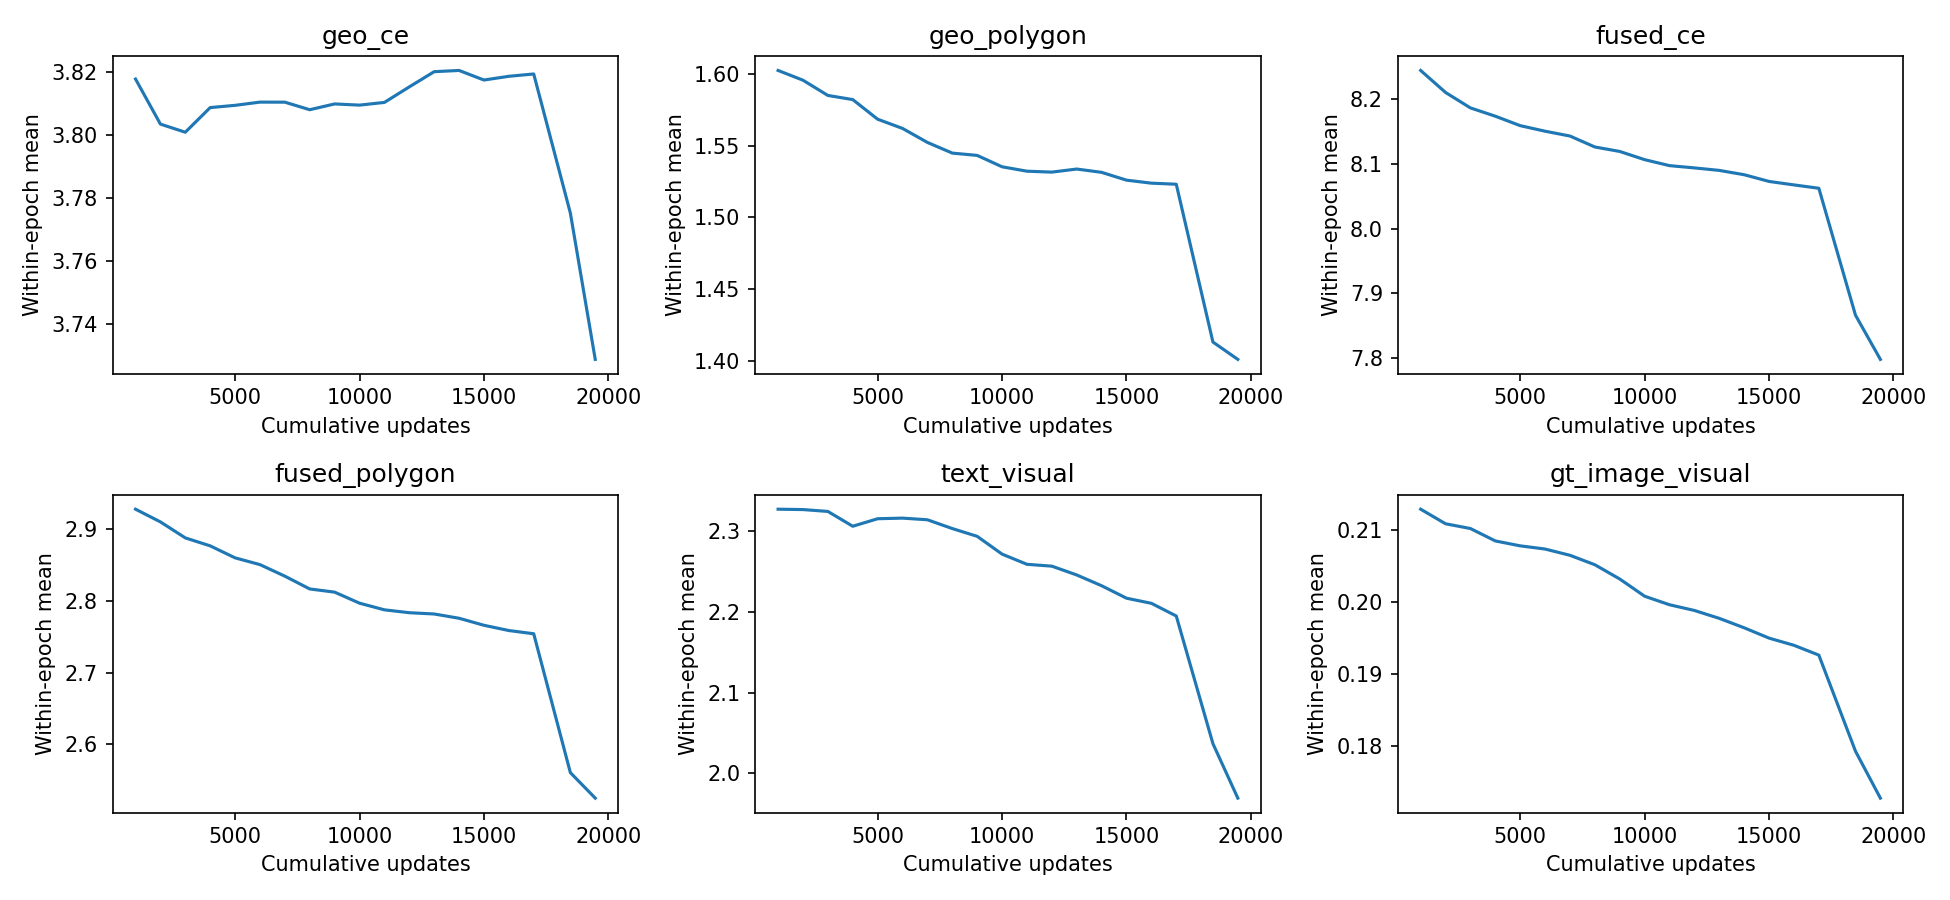
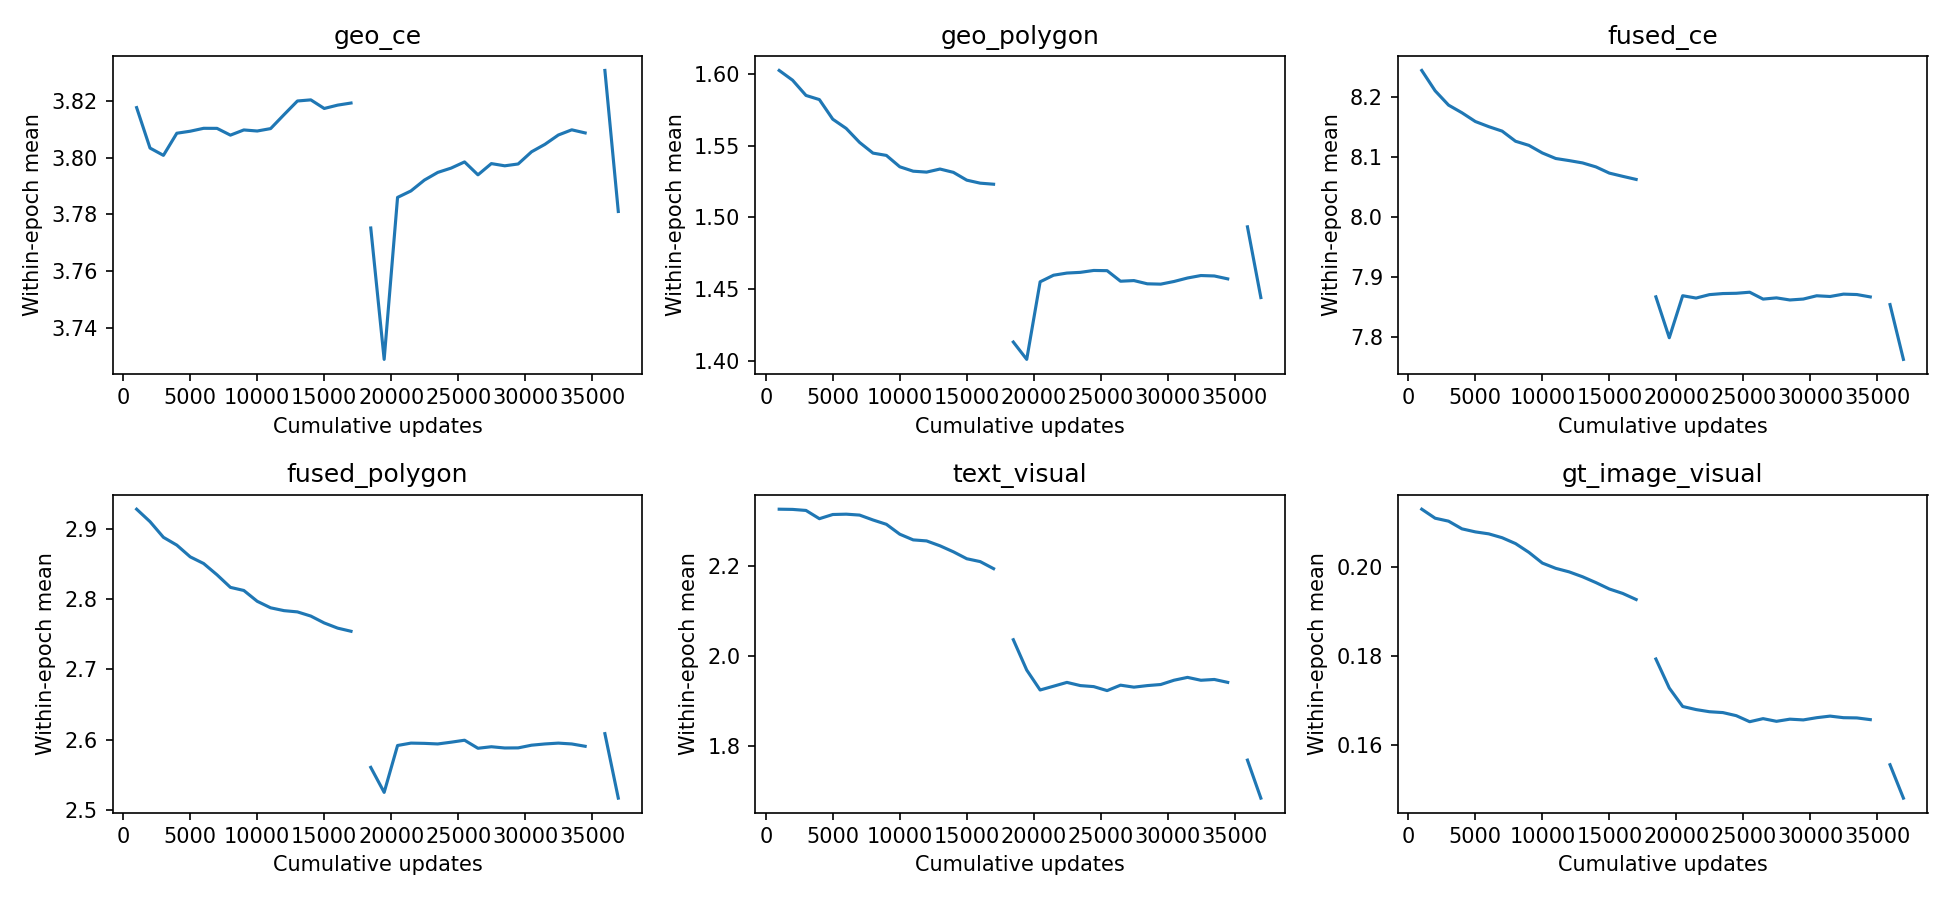
reports(v3): record two complete epochs without premature evaluation

diff --git a/scripts/report_unified_pgvb_v3_training.py b/scripts/report_unified_pgvb_v3_training.py
@@ -17,13 +17,18 @@ def main():
     points=[x for x in events if 'mean_loss' in x]
     x=[(v['epoch']-1)*nfit+v['update'] for v in points];y=[v['mean_loss'] for v in points]
     assert all(math.isfinite(v) for v in y)
-    fig,ax=plt.subplots(figsize=(9,4));ax.plot(x,y,label='Within-epoch cumulative mean (every 1000 updates)')
+    fig,ax=plt.subplots(figsize=(9,4))
+    for j,epoch in enumerate(sorted({v['epoch'] for v in points})):
+        segment=[(xx,v['mean_loss']) for xx,v in zip(x,points) if v['epoch']==epoch]
+        if segment:ax.plot(*zip(*segment),color='C0',label='Within-epoch cumulative mean (not joined across epochs)' if j==0 else None)
     if epochs:ax.plot([v['epoch']*nfit for v in epochs],[v['mean_train_loss'] for v in epochs],'o-',label='Completed epoch mean')
     ax.set(xlabel='Cumulative optimizer updates',ylabel='TRAIN weighted loss',title='V3 real GPU training; no Val selection');ax.legend(fontsize=7);fig.tight_layout();fig.savefig(o/'training_loss.png',dpi=150);plt.close(fig)
     keys=['geo_ce','geo_polygon','fused_ce','fused_polygon','text_visual','gt_image_visual'];fig,axes=plt.subplots(2,3,figsize=(13,6))
     for ax,k in zip(axes.flat,keys):
         vals=[(xx,v['components_mean'][k]) for xx,v in zip(x,points) if k in v.get('components_mean',{})]
-        if vals:ax.plot(*zip(*vals))
+        for epoch in sorted({v['epoch'] for v in points}):
+            segment=[(xx,v['components_mean'][k]) for xx,v in zip(x,points) if v['epoch']==epoch and k in v.get('components_mean',{})]
+            if segment:ax.plot(*zip(*segment),color='C0')
         ax.set(title=k,xlabel='Cumulative updates',ylabel='Within-epoch mean')
     fig.tight_layout();fig.savefig(o/'loss_components.png',dpi=150);plt.close(fig)
     final_path=r/'train/report.json';final=json.loads(final_path.read_text()) if final_path.exists() else None
@@ -41,7 +46,7 @@ def main():
         if (r/src).exists():shutil.copyfile(r/src,o/dst)
     report=['# UnifiedPGVB-V3 完整TRAIN训练与评测','',f'完整TRAIN输入{fit["total"]}条；本阶段拟合{fit["fit"]}条、物理目标留出{fit["dev"]}条，物理分组重叠0。初始化V2曾使用TRAIN，内部留出不是完全未见泛化。','',f'当前已完成完整Epoch：{len(epochs)}；训练结束：{final is not None}。','', 'Geometry和轻量视觉模块训练，BERT/SigLIP2冻结并读取缓存；seed42，原权重保留。四小时累计训练预算，至少三轮后连续两轮相对Loss改善<0.5%提前停止。未修改Stop=0.3、1mm守卫或Horizon。','', '训练视点由公开地标选择，属于离线地图引导观测；不能作为无人机真实已看到的图像。导航/初始Goal评测使用真实起点及因果历史，保留原yaw，存在需检查的训练—部署分布差异。Polygon/Depth均是弱监督/2.5D代理，不是人工像素真值。','', '|Epoch|拟合样本|TRAIN Loss|本轮Wall秒|GPU峰值GiB|','|---|---:|---:|---:|---:|']
     for v in epochs:report.append(f'|{v["epoch"]}|{v["fit"]}|{v["mean_train_loss"]:.6f}|{v["elapsed_s"]:.2f}|{v["peak_cuda_GiB"]:.3f}|')
-    report+=['','![训练Loss](training_loss.png)','![Loss分量](loss_components.png)','', '## 全量评测状态','']
+    report+=['','![训练Loss](training_loss.png)','![Loss分量](loss_components.png)','', '## 全量评测状态','', 'Top-K按384×384稠密世界网格原始排序，未做空间去重，不能直接与旧784网格的Top-K作横向比较；Top1/NE使用相同20m世界距离判据。','']
     if initial:
         assert initial['coverage']=={'completed':2470,'expected':2470}
         report += [f'全量初始定位覆盖2470/2470，推理错误{initial["errors"]}条。','', '|方法|Top1≤20m|Top5≤20m|Top20≤20m|NE(m)|','|---|---:|---:|---:|---:|']

diff --git a/reports/unified_pgvb/v3_full_training/REPORT_zh.md b/reports/unified_pgvb/v3_full_training/REPORT_zh.md
@@ -2,7 +2,7 @@
 
 完整TRAIN输入21878条；本阶段拟合17473条、物理目标留出4405条，物理分组重叠0。初始化V2曾使用TRAIN，内部留出不是完全未见泛化。
 
-当前已完成完整Epoch：1；训练结束：False。
+当前已完成完整Epoch：2；训练结束：False。
 
 Geometry和轻量视觉模块训练，BERT/SigLIP2冻结并读取缓存；seed42，原权重保留。四小时累计训练预算，至少三轮后连续两轮相对Loss改善<0.5%提前停止。未修改Stop=0.3、1mm守卫或Horizon。
 
@@ -11,11 +11,14 @@ Geometry和轻量视觉模块训练，BERT/SigLIP2冻结并读取缓存；seed42
 |Epoch|拟合样本|TRAIN Loss|本轮Wall秒|GPU峰值GiB|
 |---|---:|---:|---:|---:|
 |1|17473|13.351958|756.05|0.144|
+|2|17473|13.035805|754.36|0.144|
 
 ![训练Loss](training_loss.png)
 ![Loss分量](loss_components.png)
 
 ## 全量评测状态
+
+Top-K按384×384稠密世界网格原始排序，未做空间去重，不能直接与旧784网格的Top-K作横向比较；Top1/NE使用相同20m世界距离判据。
 
 尚无全部2470条Val-Seen定位结果；不报告子集作为正式效果。
 
